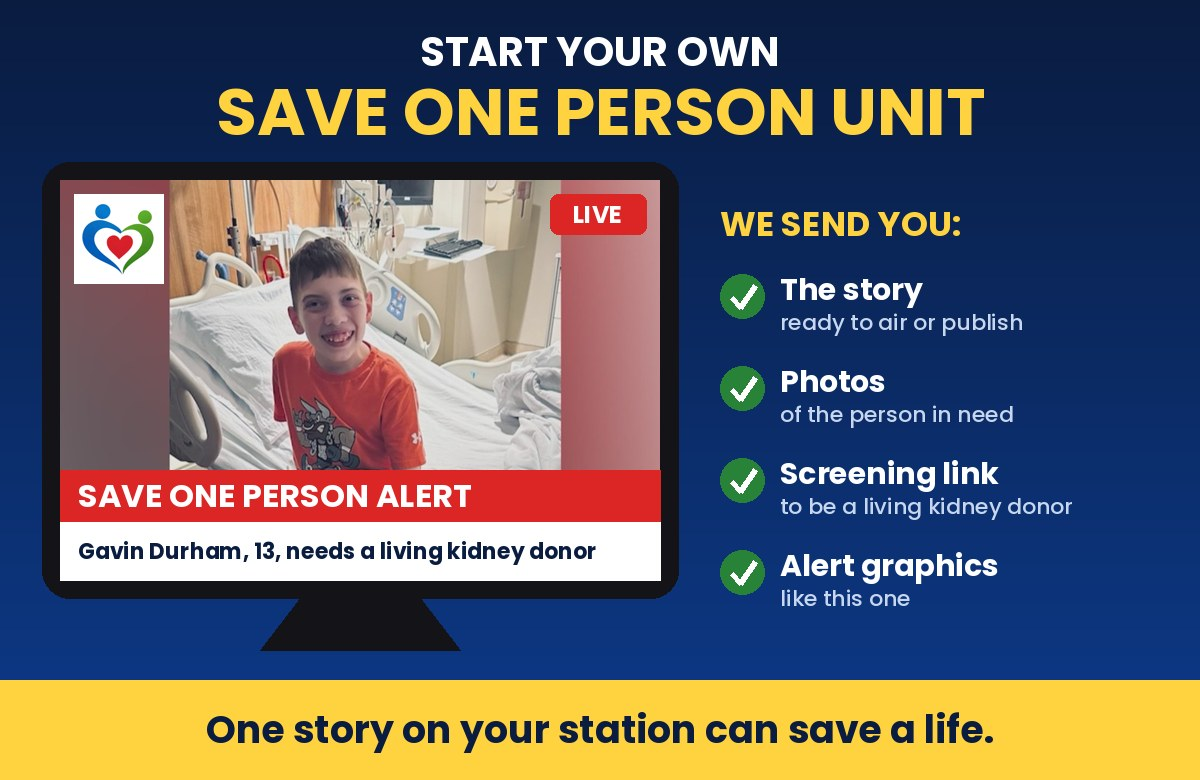
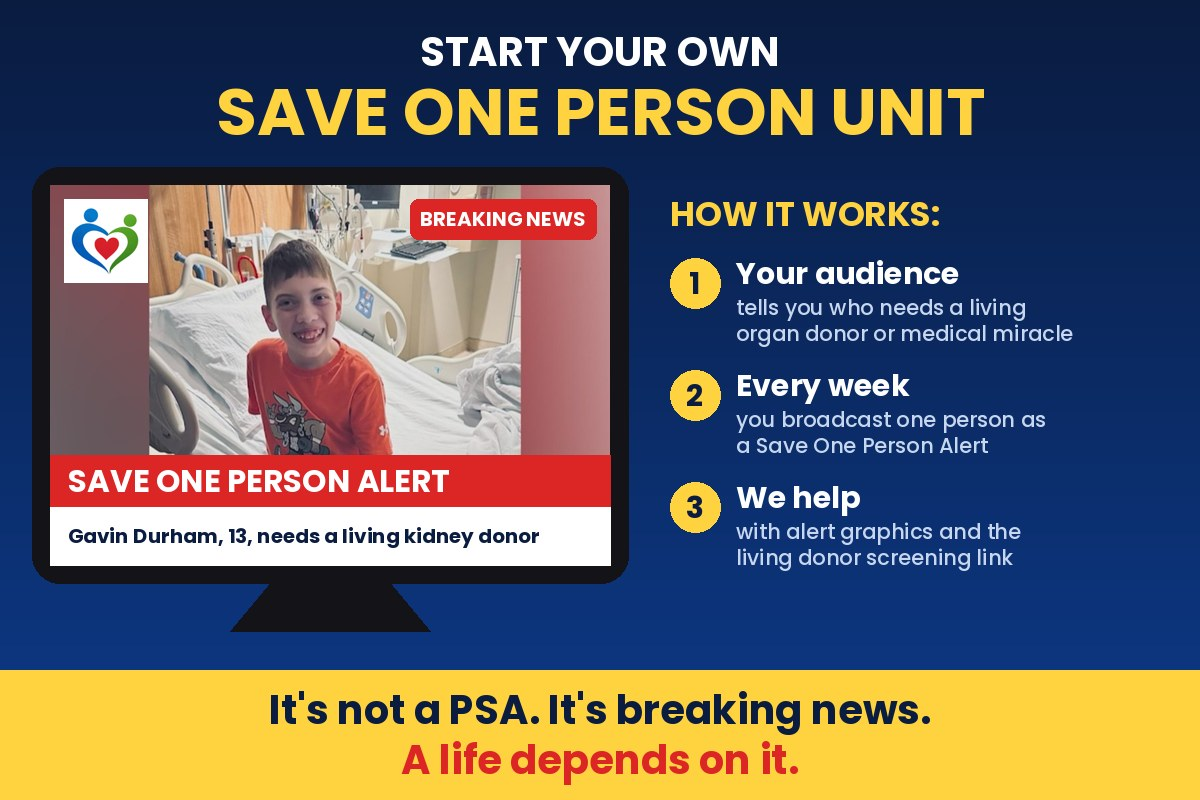
Newsletter: unit = weekly audience feature, breaking news not PSA
Claude-Session: https://claude.ai/code/session_01QWtLC1jh74KzskpCtZbWrn

diff --git a/ops/email/2026-11-30-save-one-alert-gavin.html b/ops/email/2026-11-30-save-one-alert-gavin.html
@@ -19,7 +19,7 @@
     <div style="font-size:24px;font-weight:bold;margin-top:24px;">Please share Gavin's story with your audience.</div>
   </td></tr>
 
-  <tr><td style="padding:0;"><a href="mailto:save1person1@gmail.com?subject=Yes%2C%20we%20want%20a%20Save%20One%20Person%20unit"><img src="https://www.saveonepersonnow.org/images/newsletter/nl-unit.jpg" width="1000" alt="Start your own Save One Person unit. We send you the story, photos, the living kidney donor screening link and Save One Person Alert graphics. One story on your station can save a life." style="display:block;width:100%;height:auto;border:0;"></a></td></tr>
+  <tr><td style="padding:0;"><a href="mailto:save1person1@gmail.com?subject=Yes%2C%20we%20want%20a%20Save%20One%20Person%20unit"><img src="https://www.saveonepersonnow.org/images/newsletter/nl-unit.jpg" width="1000" alt="Start your own Save One Person unit. Each week, your audience tells you who needs a living organ donor or a medical miracle, and you broadcast one person as a Save One Person Alert. We help with alert graphics and the living donor screening link. It's not a PSA. It's breaking news. A life depends on it." style="display:block;width:100%;height:auto;border:0;"></a></td></tr>
   <tr><td align="center" style="padding:26px 30px 34px;background:#0a1c40;">
     <a href="mailto:save1person1@gmail.com?subject=Yes%2C%20we%20want%20a%20Save%20One%20Person%20unit" style="display:inline-block;background:#ffd23f;color:#0a1c40;text-decoration:none;font-weight:bold;font-size:28px;padding:20px 44px;border-radius:999px;">Yes, I want a Save One Person unit</a>
   </td></tr>
